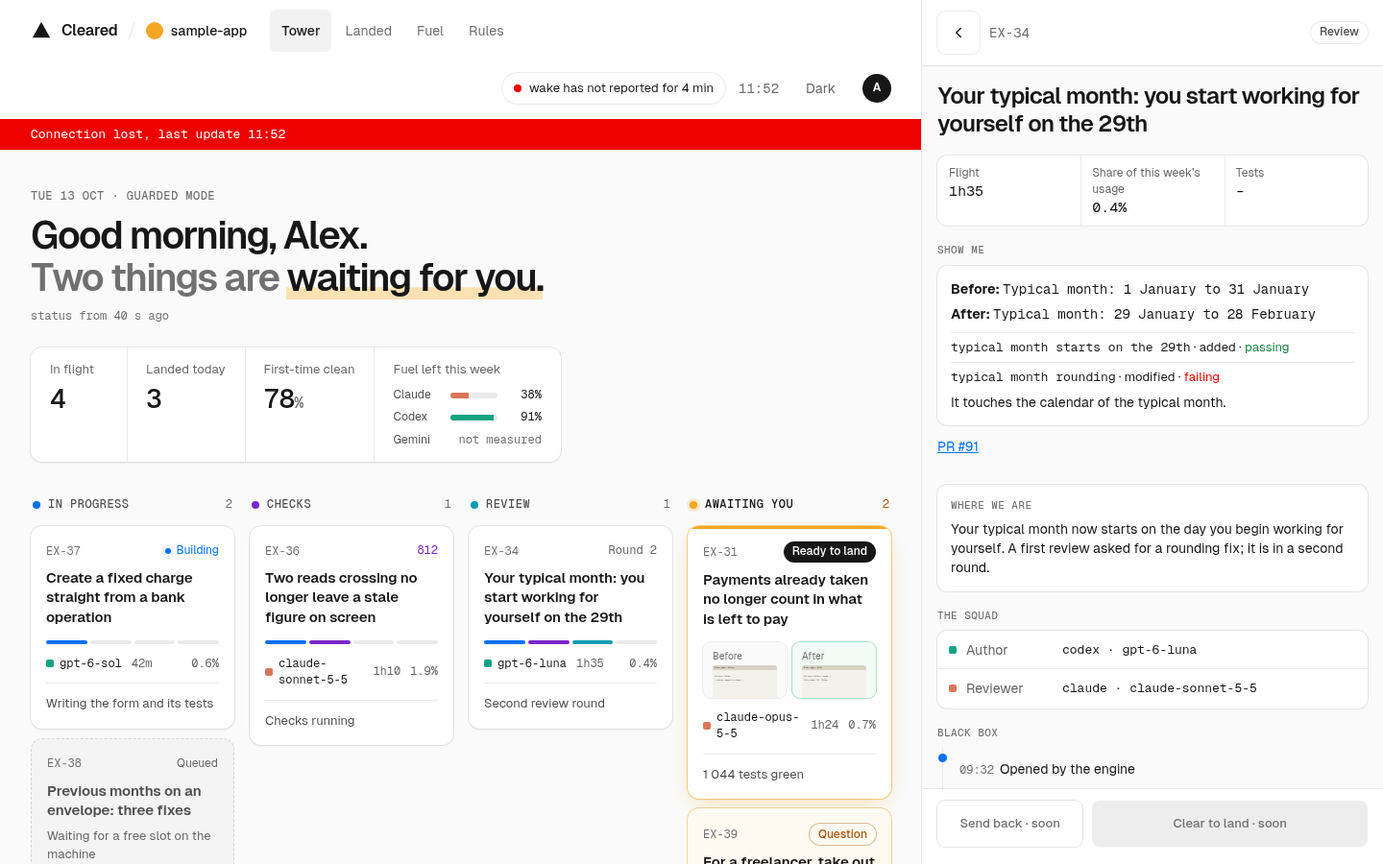
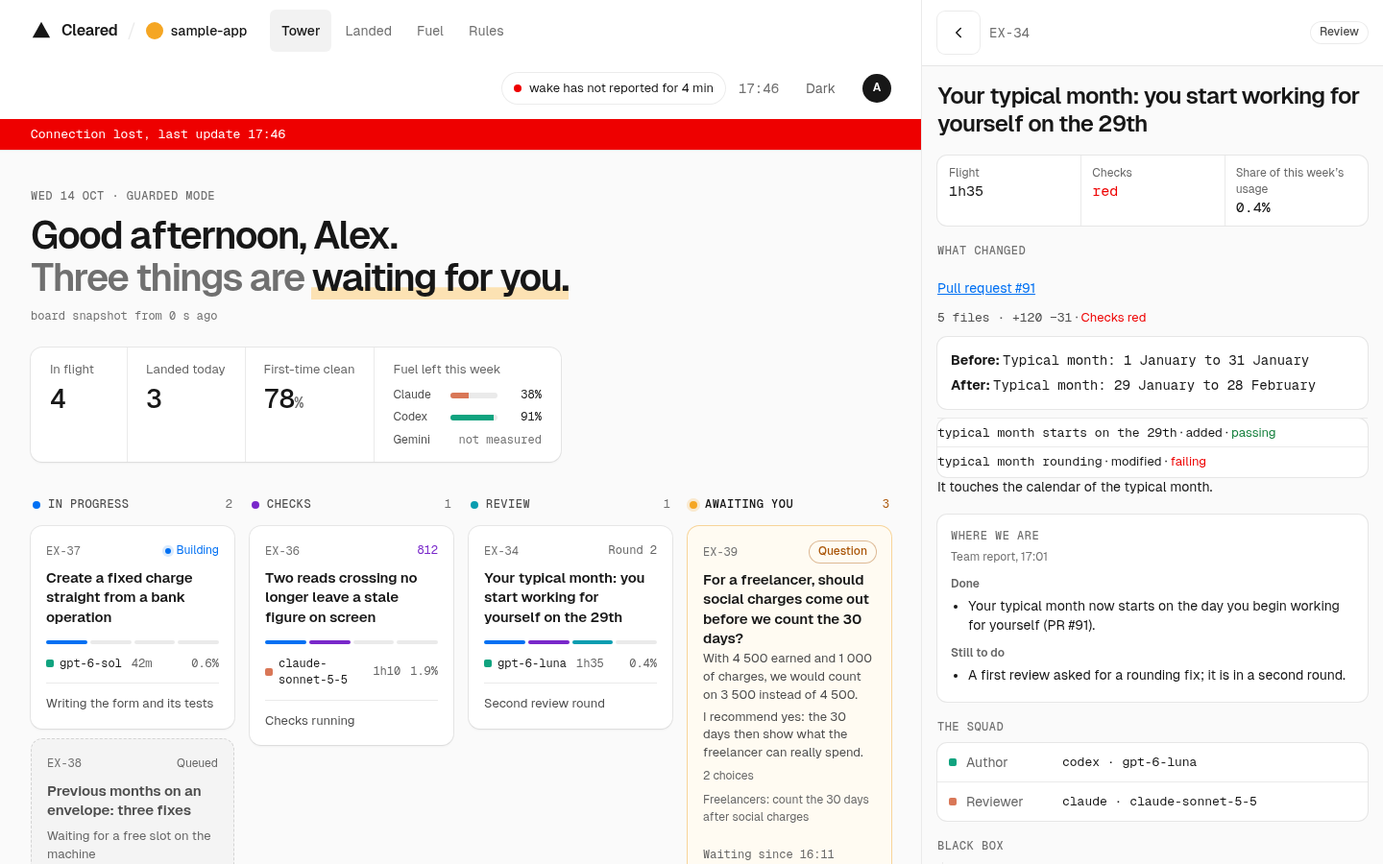
feat(app): show the whole question, what changed and the team's report
Question cards lead with the question's first sentence, then its
recommendation, choices and since when it waits; the porthole shows the
question in full, a one-tap Follow the recommendation when the team gave
one, What changed (pull request link, size, checks, captures or why none)
and Where we are from the report. Awaiting you is ordered by age; tracker-only
tickets are listed apart and quiet. Unknown values say not measured. Demo data
and screenshots cover each case.

diff --git a/app/public/app.js b/app/public/app.js
@@ -106,49 +106,98 @@ function renderStats(s) {
 }
 
 // --- tower -------------------------------------------------------------------
+// The time something started waiting: the hour today, the day and hour before.
+const since = (iso) => {
+  const d = new Date(iso), today = new Date();
+  return d.toDateString() === today.toDateString() ? clock(iso) : when(iso);
+};
+const SAYS_REC = /^(?:je recommande|nous recommandons|l['’]équipe recommande|je conseille|nous conseillons|ma recommandation|notre recommandation|recommandation|i recommend|we recommend|the team recommends|my recommendation|our recommendation|recommendation|recommended)\b/iu;
+const leadOf = (text) => (/^[^?？]*[?？]/u.exec(text) ?? /^[\s\S]*?[!.](?=\s|$)/u.exec(text))?.[0]?.trim() ?? text;
+// "PR #314 · 3 files · +12 −4 · checks green": what a pull request is, in one line. Unknown parts are said so.
+function changeParts(c) {
+  const parts = [];
+  if (c.files !== null) parts.push(t(c.files === 1 ? 'app_pr_files_one' : 'app_pr_files', { n: c.files }));
+  if (c.additions !== null && c.deletions !== null) parts.push(`+${c.additions} −${c.deletions}`);
+  else if (c.lines !== null) parts.push(t('app_pr_lines', { n: c.lines }));
+  if (!parts.length) parts.push(t('app_pr_size_unknown'));
+  return parts;
+}
+const checksText = (c) => (c?.checks ? `${t('app_checks')} ${t(`app_checks_${c.checks}`)}` : `${t('app_checks')} ${t('app_not_measured')}`);
+const checksClass = (c) => (c?.checks === 'green' ? 'success' : c?.checks === 'red' ? 'danger' : c?.checks === 'running' ? '' : 'faint');
 function card(ticket) {
   const col = COLUMNS.indexOf(ticket.column);
   const top = el('div', { className: 'top-row' }, el('span', { className: 'id', textContent: ticket.id }));
   if (ticket.kind === 'ready') top.append(el('span', { className: 'chip', textContent: t('app_chip_ready') }));
   else if (ticket.kind === 'question') top.append(el('span', { className: 'chip q', textContent: t('app_chip_question') }));
+  else if (ticket.kind === 'tracker') top.append(el('span', { className: 'hint', textContent: t('app_tracker_hint') }));
   else if (ticket.kind === 'queued') top.append(el('span', { className: 'hint', textContent: cap(t('app_queued_tag')) }));
   else if (ticket.live) top.append(el('span', { className: 'hint progress' }, el('i', { className: 'live' }), t('app_hint_building')));
   else if (ticket.column === 'checks' && ticket.tests) top.append(el('span', { className: 'hint checks', textContent: String(ticket.tests) }));
   else if (ticket.round > 1) top.append(el('span', { className: 'hint round', textContent: t('app_hint_round', { n: ticket.round }) }));
-  const parts = [top, el('h3', { textContent: ticket.title })];
+  const parts = [top];
+  const questions = ticket.kind === 'question' ? ticket.questions ?? [] : [];
+  if (questions.length) {
+    // The question in full as the title (at least its first sentence, never cut), then what goes with it.
+    const first = questions[0];
+    const lead = leadOf(first.text);
+    const rest = first.text.slice(lead.length).trim();
+    parts.push(el('h3', { textContent: lead }));
+    if (rest) parts.push(el('p', { className: 'q-rest', textContent: rest }));
+    // "The team recommends" only when the team's own words do not already say it ("I recommend…").
+    if (first.recommendation) parts.push(el('p', { className: 'q-rec' }, SAYS_REC.test(first.recommendation) ? null : el('b', { textContent: `${t('app_q_rec')} · ` }), first.recommendation));
+    const more = questions.length - 1;
+    if (first.options.length || more) parts.push(el('p', { className: 'q-meta', textContent: [first.options.length ? t('app_q_choices', { n: first.options.length }) : null, more ? t(more === 1 ? 'app_q_more_one' : 'app_q_more', { n: more }) : null].filter(Boolean).join(' · ') }));
+    parts.push(el('p', { className: 'q-ticket', textContent: ticket.title }));
+  } else parts.push(el('h3', { textContent: ticket.title }));
   if (ticket.kind === 'ready' && ticket.captures) {
     parts.push(el('div', { className: 'tiles' },
       el('div', { className: 'tile' }, el('div', { className: 't', textContent: t('app_before') }), el('img', { src: ticket.captures.before, alt: '' })),
       el('div', { className: 'tile after' }, el('div', { className: 't', textContent: t('app_after') }), el('img', { src: ticket.captures.after, alt: '' }))));
   }
+  if (ticket.kind === 'ready' && ticket.change) {
+    parts.push(el('p', { className: 'change-line' }, mono(`PR #${ticket.change.pr.number}`), ` · ${changeParts(ticket.change).join(' · ')} · `, el('span', { className: checksClass(ticket.change), textContent: checksText(ticket.change) })));
+  }
   const showRail = ticket.kind === 'normal' && col >= 0 && col < 3;
   if (showRail) parts.push(el('div', { className: 'rail' }, ...['progress', 'checks', 'review', null].map((stage, i) => el('span', { className: i <= col && stage ? `s-${stage}` : '' }))));
-  if (ticket.kind !== 'question' && ticket.kind !== 'queued') {
+  if (!['question', 'queued', 'tracker'].includes(ticket.kind)) {
     parts.push(el('div', { className: 'meta' }, el('span', { className: 'm' }, el('span', { className: `sq ${harnessClass(ticket.harness)}` }), ticket.model),
-      ticket.kind === 'queued' ? null : mono(dur(ticket.flightMinutes)),
-      el('span', { className: 'share', title: t('app_share_label') }, pct(ticket.quotaShare), el('span', { className: 'sr-only', textContent: ` ${t('app_share_label')}` }))));
+      mono(dur(ticket.flightMinutes)),
+      ticket.quotaShare == null ? null : el('span', { className: 'share', title: t('app_share_label') }, pct(ticket.quotaShare), el('span', { className: 'sr-only', textContent: ` ${t('app_share_label')}` }))));
   }
-  const sentence = actions.noteFor(ticket.id) ?? cap(ticket.queued || ticket.kind === 'question' ? ticket.reason : ticket.statusLine);
+  const sentence = actions.noteFor(ticket.id) ?? (ticket.kind === 'question' && questions.length ? null : cap(ticket.queued || ticket.kind === 'question' || ticket.kind === 'tracker' ? ticket.reason : ticket.statusLine));
   if (sentence) parts.push(el('div', { className: 'line', textContent: sentence }));
+  if (ticket.waiting) {
+    parts.push(el('div', { className: 'foot' }, ticket.since ? el('span', { className: 'age' }, el('time', { dateTime: ticket.since, textContent: t('app_since', { time: since(ticket.since) }) })) : null,
+      ticket.kind === 'question' ? el('span', { className: 'open', textContent: t('app_q_open') }) : null));
+  }
   const btn = el('button', { type: 'button' }, parts);
   btn.addEventListener('click', () => openTicket(ticket.id));
   return el('li', { className: `card ${ticket.kind}`, dataset: { id: ticket.id } }, btn);
 }
 function renderTower(s) {
-  const tickets = [...s.tickets].sort((a, b) => Number(b.waiting) - Number(a.waiting));
+  // What waits for the human first, the longest waiting first; a ticket the tracker alone holds comes after, apart.
+  const rank = (x) => (x.waiting ? 0 : x.kind === 'tracker' ? 2 : 1);
+  const tickets = [...s.tickets].sort((a, b) => rank(a) - rank(b) || (a.waiting && b.waiting ? (a.since ?? '~').localeCompare(b.since ?? '~') : 0));
   $('tower').replaceChildren(...COLUMNS.map((c) => {
     const mine = tickets.filter((x) => x.column === c);
+    const main = mine.filter((x) => x.kind !== 'tracker'), apart = mine.filter((x) => x.kind === 'tracker');
+    const shown = c === 'awaiting' ? mine.filter((x) => x.waiting).length : mine.length;
     return el('section', { className: 'col', dataset: { col: c } },
-      el('div', { className: 'col-head' }, el('i', { className: `d-${c}` }), el('h2', { textContent: t(`app_col_${c}`) }), mono(String(mine.length), 'n')),
-      mine.length ? el('ul', { className: 'cards' }, ...mine.map(card)) : el('p', { className: 'empty', textContent: t('app_none') }));
+      el('div', { className: 'col-head' }, el('i', { className: `d-${c}` }), el('h2', { textContent: t(`app_col_${c}`) }), mono(String(shown), 'n')),
+      main.length ? el('ul', { className: 'cards' }, ...main.map(card)) : el('p', { className: 'empty', textContent: t('app_none') }),
+      apart.length ? el('h3', { className: 'apart', textContent: t('app_tracker_group') }) : null,
+      apart.length ? el('ul', { className: 'cards' }, ...apart.map(card)) : null);
   }));
 }
 function renderLanded(s) {
   const rows = todayLanded(s);
   const back = rows.filter((r) => r.rolledBackAt).length;
+  // The share of the week is left out when it is not measured (too few tickets this week to mean anything).
+  const measured = rows.every((r) => r.share != null);
   const share = Math.round(rows.reduce((n, r) => n + (r.share ?? 0), 0) * 10) / 10;
   $('landed-summary').textContent = rows.length
-    ? t(rows.length === 1 ? 'app_landed_summary_one' : 'app_landed_summary', { n: rows.length, r: back, p: String(share).replace('.', fr() ? ',' : '.') })
+    ? (measured ? t(rows.length === 1 ? 'app_landed_summary_one' : 'app_landed_summary', { n: rows.length, r: back, p: String(share).replace('.', fr() ? ',' : '.') })
+      : t(rows.length === 1 ? 'app_landed_summary_short_one' : 'app_landed_summary_short', { n: rows.length, r: back }))
     : '';
   const heads = ['time', 'what', 'model', 'out'].map((k) => el('span', { role: 'columnheader', textContent: t(`app_landed_col_${k}`) }));
   const lines = rows.map((r) => {
@@ -202,7 +251,7 @@ async function openTicket(id) {
     if (state.open !== id) return; // another ticket was opened meanwhile
     const chip = $('ph-chip');
     chip.className = `chip${d.kind === 'question' ? ' q' : d.kind === 'ready' ? '' : ' stage'}`;
-    chip.textContent = d.kind === 'ready' ? t('app_chip_ready') : d.kind === 'question' ? t('app_chip_question') : t(`app_col_${d.column}`);
+    chip.textContent = d.kind === 'ready' ? t('app_chip_ready') : d.kind === 'question' ? t('app_chip_question') : d.kind === 'tracker' ? t('app_tracker_hint') : t(`app_col_${d.column}`);
     $('ph-body').replaceChildren(...porthole(d));
     await actions.load();
     if (state.open !== id) return;
@@ -233,28 +282,62 @@ function device(img, after) {
   return el('figure', { className: after ? 'after' : 'before' }, b, el('figcaption', { textContent: img.caption }));
 }
 const section = (label, ...kids) => el('section', { className: 'sec' }, el('span', { className: 'label', textContent: label }), kids);
+const minutesSince = (iso) => Math.max(0, Math.round((Date.now() - Date.parse(iso)) / 60000));
 
+// The porthole of one ticket: what is asked of the human first (the whole question, the
+// team's recommendation, or the version to clear), then what changed, then where the work stands.
 function porthole(d) {
   const out = [];
-  out.push(el('div', {}, d.waiting ? el('div', { className: 'amber-bar' }) : null, el('h2', { id: 'ph-title', textContent: d.title })));
-  out.push(el('div', { className: 'pstats' },
-    el('div', {}, el('div', { className: 'k', textContent: t('app_stat_p_flight') }), el('div', { className: 'v', textContent: dur(d.flightMinutes) })),
-    el('div', {}, el('div', { className: 'k', textContent: t('app_stat_p_usage') }), el('div', { className: 'v', textContent: pct(d.quotaShare) })),
-    el('div', {}, el('div', { className: 'k', textContent: t('app_stat_p_tests') }), el('div', { className: `v${d.tests ? ' success' : ''}`, textContent: d.tests ? new Intl.NumberFormat(locale()).format(d.tests) : '–' }))));
-  const show = [];
-  if (d.show.kind === 'screen') {
-    show.push(el('div', { className: 'devs' }, ...d.show.before.map((i) => device(i, false)), ...d.show.after.map((i) => device(i, true))));
-    if (!d.show.before.length && !d.show.after.length) show.push(el('p', { className: 'empty', textContent: t('app_no_capture') }));
-  } else {
-    const box = [];
-    if (d.show.example) box.push(el('div', { className: 'example' }, el('p', {}, el('b', { textContent: `${t('app_before')}: ` }), mono(d.show.example.before)), el('p', {}, el('b', { textContent: `${t('app_after')}: ` }), mono(d.show.example.after))));
-    if (d.show.tests.length) box.push(el('ul', { className: 'tests' }, ...d.show.tests.map((x) => el('li', {}, mono(x.name), ` · ${t(`app_test_${x.change}`)} · `, el('span', { className: x.state === 'pass' ? 'success' : x.state === 'fail' ? 'danger' : 'faint', textContent: t(`app_state_${x.state}`) })))));
-    if (d.show.touches) box.push(el('p', { textContent: d.show.touches }));
-    show.push(box.length ? el('div', { className: 'box-card' }, box) : el('p', { className: 'empty', textContent: t('app_nothing_yet') }));
+  out.push(el('div', {}, d.waiting ? el('div', { className: 'amber-bar' }) : null, el('h2', { id: 'ph-title', textContent: d.title }),
+    d.waiting && d.since ? el('p', { className: 'ph-since' }, el('time', { dateTime: d.since, textContent: `${t('app_since', { time: since(d.since) })} (${dur(minutesSince(d.since))})` })) : null));
+  const questions = d.kind === 'question' ? d.questions ?? [] : [];
+  if (questions.length) {
+    out.push(el('section', { className: 'ph-question', ariaLabel: t(questions.length > 1 ? 'app_q_label_many' : 'app_q_label') },
+      el('span', { className: 'label', textContent: t(questions.length > 1 ? 'app_q_label_many' : 'app_q_label') }),
+      ...questions.map((q, i) => el('div', { className: 'q' },
+        questions.length > 1 ? el('span', { className: 'q-n mono', textContent: t('app_q_number', { n: i + 1 }) }) : null,
+        el('p', { className: 'q-text', textContent: q.text }),
+        q.recommendation ? el('p', { className: 'q-rec' }, el('b', { textContent: t('app_q_rec') }), q.recommendation) : null,
+        q.options.length ? el('ul', { className: 'q-options' }, ...q.options.map((o) => el('li', { textContent: o }))) : null))));
   }
-  if (d.pr) show.push(d.pr.url ? el('p', {}, el('a', { href: d.pr.url, rel: 'noreferrer noopener', target: '_blank', textContent: `PR #${d.pr.number}` })) : el('p', {}, mono(`PR #${d.pr.number}`)));
-  out.push(section(t('app_show'), show));
-  out.push(el('section', { className: 'box-card sec' }, el('span', { className: 'label', textContent: t('app_where') }), el('p', { textContent: d.where.join(' ') })));
+  if (d.kind === 'ready' && d.where.length) out.push(el('section', { className: 'box-card sec' }, el('span', { className: 'label', textContent: t('app_asked') }), el('p', { textContent: d.where.join(' ') })));
+  if (d.kind === 'tracker') out.push(el('p', { className: 'box-card tracker-note', textContent: t('app_tracker_explain') }));
+  // Stats that mean something, or that say plainly they are not measured.
+  const stats = [[t('app_stat_p_flight'), dur(d.flightMinutes), '']];
+  stats.push([t('app_stat_p_checks'), d.change?.checks ? t(`app_checks_${d.change.checks}`) : t('app_not_measured'), checksClass(d.change)]);
+  if (d.quotaShare != null) stats.push([t('app_stat_p_usage'), pct(d.quotaShare), '']);
+  out.push(el('div', { className: 'pstats' }, ...stats.map(([k, v, cls]) => el('div', {}, el('div', { className: 'k', textContent: k }), el('div', { className: `v ${cls}`.trim(), textContent: v })))));
+
+  // What changed: the pull request, its size and its checks; the captures of a screen; an example.
+  const changed = [];
+  const c = d.change ?? (d.pr ? { pr: d.pr, files: null, additions: null, deletions: null, lines: null, checks: null, draft: null } : null);
+  if (c) {
+    changed.push(el('div', { className: 'pr-row' },
+      c.pr.url ? el('a', { href: c.pr.url, rel: 'noreferrer noopener', target: '_blank', textContent: t('app_pr_link', { n: c.pr.number }) }) : mono(t('app_pr_link', { n: c.pr.number })),
+      c.draft ? el('span', { className: 'tag', textContent: t('app_pr_draft') }) : null),
+    el('p', { className: 'pr-facts' }, mono(changeParts(c).join(' · ')), ' · ', el('span', { className: checksClass(c), textContent: checksText(c) }),
+      d.tests ? ` · ${t('app_srv_tests_green', { n: new Intl.NumberFormat(locale()).format(d.tests) })}` : null));
+  } else changed.push(el('p', { className: 'empty', textContent: t('app_no_pr') }));
+  if (d.show.kind === 'screen') {
+    if (d.show.before.length || d.show.after.length) changed.push(el('div', { className: 'devs' }, ...d.show.before.map((i) => device(i, false)), ...d.show.after.map((i) => device(i, true))));
+    else changed.push(el('p', { className: 'no-capture', textContent: t(`app_no_capture_${d.show.missing ?? 'none_kept'}`) }));
+  }
+  const example = d.show.example;
+  if (example) changed.push(el('div', { className: 'example box-card' }, el('p', {}, el('b', { textContent: `${t('app_before')}: ` }), mono(example.before)), el('p', {}, el('b', { textContent: `${t('app_after')}: ` }), mono(example.after))));
+  if (d.show.kind === 'code' && d.show.tests.length) changed.push(el('ul', { className: 'tests box-card' }, ...d.show.tests.map((x) => el('li', {}, mono(x.name), ` · ${t(`app_test_${x.change}`)} · `, el('span', { className: x.state === 'pass' ? 'success' : x.state === 'fail' ? 'danger' : 'faint', textContent: t(`app_state_${x.state}`) })))));
+  if (d.show.kind === 'code' && d.show.touches) changed.push(el('p', { textContent: d.show.touches }));
+  out.push(section(t('app_changed'), changed));
+
+  // Where we are: the team's report to the user (Done, Still to do), never its internal handover.
+  const where = [];
+  if (d.report) {
+    where.push(el('p', { className: 'report-at faint', textContent: t('app_report_title', { time: since(d.report.at) }) }));
+    const list = (label, items) => (items.length ? [el('h3', { className: 'report-h', textContent: label }), el('ul', { className: 'report' }, ...items.map((x) => el('li', { textContent: x })))] : []);
+    where.push(...list(t('app_report_done'), d.report.done), ...list(t('app_report_remaining'), d.report.remaining));
+    if (d.report.other?.length) where.push(el('ul', { className: 'report' }, ...d.report.other.map((x) => el('li', { textContent: x }))));
+  } else where.push(el('p', { className: 'empty', textContent: t('app_no_report') }));
+  out.push(el('section', { className: 'box-card sec' }, el('span', { className: 'label', textContent: t('app_where') }), where));
+
   out.push(section(t('app_squad'), d.squad.length
     ? el('ul', { className: 'squad' }, ...d.squad.map((s) => el('li', {}, el('span', { className: `sq ${harnessClass(s.harness)}` }), el('span', { className: 'role', textContent: t(`app_role_${s.role.replace(/ /g, '_')}`) }), mono(`${s.harness} · ${s.model}`, 'who'))))
     : el('p', { className: 'empty', textContent: t('app_no_squad') })));

diff --git a/app/public/style.css b/app/public/style.css
@@ -132,7 +132,7 @@ a { color: var(--link); } button { font: inherit; color: inherit; }
 .ph-body h2 { font-size: 24px; font-weight: 600; letter-spacing: -.035em; line-height: 1.2; } .amber-bar { height: 3px; width: 56px; border-radius: 2px; background: var(--awaiting); margin-bottom: 12px; }
 .pstats { display: flex; background: var(--surface); border-radius: 10px; box-shadow: var(--e-outline); } .pstats > div { flex: 1; padding: 10px 12px; min-width: 0; } .pstats > div + div { box-shadow: inset 1px 0 0 var(--hairline); }
 .pstats .k { font-size: 12px; color: var(--text-muted); } .pstats .v { font: 15px var(--mono); }
-.sec .label { font-size: 11px; color: var(--text-faint); margin-bottom: 8px; display: block; }
+.sec .label { font-size: 12px; color: var(--text-faint); margin-bottom: 8px; display: block; }
 .devs { display: flex; gap: 10px; } .devs figure { margin: 0; flex: 1; min-width: 0; } .devs figcaption { font-size: 12px; color: var(--text-muted); margin-top: 6px; text-align: center; } .devs .after figcaption { color: var(--success-text); font-weight: 500; }
 .device { display: block; width: 100%; padding: 5px; border-radius: 16px; background: var(--surface); box-shadow: var(--device-before); border: 0; cursor: zoom-in; } .after .device { box-shadow: var(--e-device-after); }
 .device img { display: block; width: 100%; height: 200px; object-fit: cover; object-position: top left; border-radius: 12px; background: var(--canvas); }
@@ -141,8 +141,8 @@ a { color: var(--link); } button { font: inherit; color: inherit; }
 .squad { list-style: none; margin: 0; padding: 0; background: var(--surface); border-radius: 10px; box-shadow: var(--e-outline); } .squad li { display: flex; align-items: center; gap: 10px; padding: 10px 12px; } .squad li + li { box-shadow: 0 -1px 0 var(--hairline); } .squad .role { color: var(--text-muted); width: 90px; flex: none; } .squad .who { font: 13px var(--mono); }
 .timeline { list-style: none; margin: 0 0 0 5px; padding: 0; display: flex; flex-direction: column; gap: 12px; box-shadow: inset 1px 0 0 var(--hairline); }
 .timeline li { position: relative; padding-left: 18px; } .timeline li::before { content: ""; position: absolute; left: -4px; top: 6px; width: 9px; height: 9px; border-radius: 50%; background: var(--dot, var(--stage-progress)); }
-.timeline time { font: 12px var(--mono); color: var(--text-faint); margin-right: 6px; } .timeline details { display: inline; } .timeline summary { display: inline; cursor: pointer; } .timeline pre { margin: 6px 0 0; font: 11px/1.4 var(--mono); white-space: pre-wrap; color: var(--text-muted); }
-.ph-actions { display: flex; flex-direction: column; gap: 10px; padding: 12px 16px 18px; background: var(--surface); box-shadow: 0 -1px 0 var(--outline); }
+.timeline time { font: 12px var(--mono); color: var(--text-faint); margin-right: 6px; } .timeline details { display: inline; } .timeline summary { display: inline; cursor: pointer; } .timeline pre { margin: 6px 0 0; font: 12px/1.4 var(--mono); white-space: pre-wrap; color: var(--text-muted); }
+.ph-actions { flex: none; display: flex; flex-direction: column; gap: 10px; max-height: 60vh; overflow-y: auto; padding: 12px 16px 18px; background: var(--surface); box-shadow: 0 -1px 0 var(--outline); }
 .zoom { position: fixed; inset: 0; background: var(--canvas); z-index: 40; display: grid; place-items: center; padding: 16px; } .zoom img { max-width: 100%; max-height: 85vh; border-radius: 12px; box-shadow: var(--e-outline); } .zoom button { position: absolute; top: 8px; right: 8px; }
 [hidden] { display: none !important; }
 
@@ -176,7 +176,7 @@ a { color: var(--link); } button { font: inherit; color: inherit; }
 .landed-rows > .empty { grid-column: 1 / -1; padding: 14px 18px; }
 
 /* the gestures: black is the action, nothing else here is coloured */
-.act-row { display: flex; gap: 10px; } .act-options { display: flex; flex-direction: column; gap: 8px; }
+.act-row { display: flex; gap: 10px; }
 .act { flex: 1; min-height: 48px; border-radius: 8px; border: 0; font: 500 14px var(--sans); cursor: pointer; padding: 0 12px; }
 .act.ink { flex: 2; background: var(--ink); color: var(--on-ink); } .act.ghost { background: transparent; color: var(--text); box-shadow: 0 0 0 1px rgba(0,0,0,.14); }
 :root[data-theme="dark"] .act.ghost { box-shadow: 0 0 0 1px rgba(255,255,255,.2); }
@@ -189,3 +189,36 @@ a { color: var(--link); } button { font: inherit; color: inherit; }
 .grace-text { font-size: 13px; color: var(--text); }
 .grace-bar { height: 4px; border-radius: 2px; background: var(--hairline); overflow: hidden; } .grace-bar i { display: block; height: 100%; background: var(--ink); }
 .undo { min-height: 44px; min-width: 88px; padding: 0 16px; border: 0; border-radius: 8px; background: var(--ink); color: var(--on-ink); font: 600 14px var(--sans); cursor: pointer; } .undo:disabled { background: var(--surface-muted); color: var(--text-faint); cursor: not-allowed; }
+
+/* what waits for the human, said in full: the question, the team's recommendation, the age */
+.card .q-rest, .card .q-rec { font-size: 13px; color: var(--text-secondary); margin: -6px 0 10px; display: -webkit-box; -webkit-box-orient: vertical; -webkit-line-clamp: 3; overflow: hidden; }
+.card .q-rec b { font-weight: 600; color: var(--text); }
+.card .q-meta { font-size: 12px; color: var(--text-muted); margin: -4px 0 8px; }
+.card .q-ticket { font-size: 12px; color: var(--text-muted); }
+.card .foot { display: flex; flex-wrap: wrap; align-items: baseline; justify-content: space-between; gap: 4px 12px; margin-top: 12px; font-size: 12px; }
+.card .foot .age { font-family: var(--mono); color: var(--text-muted); }
+.card.question .open { font-weight: 600; color: var(--awaiting-text); text-decoration: underline; text-underline-offset: 3px; }
+.card .change-line { font-size: 12px; color: var(--text-secondary); margin: 0 0 12px; }
+.card.tracker { background: var(--surface-muted); box-shadow: 0 0 0 1px var(--hairline); } .card.tracker h3 { color: var(--text-secondary); margin-bottom: 8px; } .card.tracker .line { box-shadow: none; padding: 0; margin: 0; color: var(--text-muted); font-size: 12px; }
+.col .apart { margin: 8px 2px 0; font: 500 12px/1.4 var(--mono); letter-spacing: .04em; text-transform: uppercase; color: var(--text-muted); }
+.ph-since { margin-top: 6px; font: 13px var(--mono); color: var(--text-muted); }
+.ph-question { padding: 14px; border-radius: 10px; background: var(--awaiting-surface); box-shadow: 0 0 0 1px rgba(245,166,35,.45); }
+.ph-question .label { display: block; margin-bottom: 8px; color: var(--text-muted); }
+.ph-question .q + .q { margin-top: 14px; padding-top: 14px; box-shadow: 0 -1px 0 var(--hairline); }
+.ph-question .q-n { display: block; font-size: 12px; color: var(--text-muted); margin-bottom: 4px; }
+.ph-question .q-text { font-size: 16px; font-weight: 500; line-height: 1.45; color: var(--text); }
+.ph-question .q-rec { margin-top: 12px; padding-top: 10px; box-shadow: 0 -1px 0 var(--awaiting-highlight); font-size: 14px; color: var(--text); }
+.ph-question .q-rec b { display: block; font: 500 12px/1.4 var(--mono); letter-spacing: .04em; text-transform: uppercase; color: var(--text-muted); margin-bottom: 2px; }
+.ph-question .q-options { margin: 10px 0 0; padding-left: 18px; font-size: 14px; color: var(--text-secondary); }
+/* the choices are buttons below when the answer form is there: not said twice */
+.porthole:has(#ph-actions:not([hidden]) .act-options) .q-options { display: none; }
+.act-options { display: grid; grid-template-columns: repeat(auto-fit, minmax(150px, 1fr)); gap: 8px; } .act-options .act.ink { grid-column: 1 / -1; }
+.act-options .act { padding: 8px 12px; line-height: 1.3; }
+.pr-row { display: flex; align-items: center; gap: 10px; flex-wrap: wrap; } .pr-row .tag { font-size: 12px; padding: 2px 8px; border-radius: 999px; box-shadow: var(--e-outline); color: var(--text-muted); }
+.pr-facts { font-size: 13px; color: var(--text-secondary); margin-bottom: 10px; }
+.no-capture { font-size: 13px; color: var(--text-secondary); padding: 12px 14px; border-radius: 10px; border: 1px dashed var(--dashed); }
+.sec > .example, .sec > .tests, .sec > .devs { margin-top: 10px; }
+.report-at { font-size: 12px; margin-bottom: 4px; }
+.report-h { font-size: 12px; font-weight: 600; color: var(--text-muted); margin: 10px 0 4px; }
+.report { margin: 0; padding-left: 18px; } .report li { margin: 4px 0; }
+.tracker-note { font-size: 13px; color: var(--text-secondary); }

diff --git a/app/public/actions.js b/app/public/actions.js
@@ -106,21 +106,36 @@ export function initActions({ t, el, $, state, clock, redraw, reopen }) {
     area.focus();
   }
 
+  // The answer to a question: one tap to follow the team's recommendation (only when it gave one),
+  // one tap per choice it offered, or the owner's own words. Each is sent as written here, as a comment.
   function answerForm(card) {
     const area = el('textarea', { className: 'act-text', rows: 2, maxLength: 4000, id: 'an-text', placeholder: t('app_act_answer_hint') });
     const err = el('p', { className: 'act-error danger', role: 'alert' });
-    const send = async (value, ...buttons) => {
+    const all = [];
+    const send = async (value) => {
       if (!value.trim()) return;
-      for (const b of buttons) b.disabled = true;
+      for (const b of all) b.disabled = true;
       const r = await api('/api/actions/answer', { ticket: card.ref, text: value });
       if (r.ok && r.json.ok) return note(card, t('app_act_answered_note', { time: clock(new Date().toISOString()) }));
-      for (const b of buttons) b.disabled = false;
+      for (const b of all) b.disabled = false;
+      go.disabled = !area.value.trim();
       err.textContent = failure(r.json);
     };
-    const options = (card.options ?? []).map((o) => button(o, 'ghost', () => send(o, ...all)));
-    const go = button(t('app_act_send'), 'ink', () => send(area.value, ...all));
-    const all = [...options, go];
-    box.replaceChildren(...(options.length ? [el('div', { className: 'act-options' }, options)] : []), el('label', { className: 'act-label', htmlFor: 'an-text', textContent: t('app_act_answer_label') }), area, err, el('div', { className: 'act-row' }, go));
+    const questions = card.questions?.length ? card.questions : [{ text: '', recommendation: null, options: card.options ?? [] }];
+    const many = questions.length > 1;
+    const blocks = questions.map((q, i) => {
+      const n = i + 1;
+      const buttons = [];
+      if (q.recommendation) buttons.push(button(many ? `${t('app_q_number', { n })} · ${t('app_act_follow')}` : t('app_act_follow'), 'ink',
+        () => send(t(many ? 'app_act_follow_text_n' : 'app_act_follow_text', { n, rec: q.recommendation }))));
+      for (const o of q.options) buttons.push(button(many ? `${n}. ${o}` : o, 'ghost', () => send(many ? t('app_act_option_text_n', { n, option: o }) : o)));
+      all.push(...buttons);
+      return buttons.length ? el('div', { className: 'act-options' }, buttons) : null;
+    }).filter(Boolean);
+    const go = button(t('app_act_send'), 'ink', () => send(area.value), true);
+    area.addEventListener('input', () => { go.disabled = !area.value.trim(); go.toggleAttribute('aria-disabled', go.disabled); });
+    all.push(go);
+    box.replaceChildren(...blocks, el('label', { className: 'act-label', htmlFor: 'an-text', textContent: t('app_act_answer_label') }), area, err, el('div', { className: 'act-row' }, go));
   }
 
   // Called when a ticket is opened (fresh) and each time the board changes under it.
@@ -135,7 +150,7 @@ export function initActions({ t, el, $, state, clock, redraw, reopen }) {
     if (mode.name === 'grace' || mode.name === 'busy') return;
     if (card.kind === 'question') {
       // A redraw of the board must not wipe what is being typed.
-      const key = `${card.ref}|${(card.options ?? []).join('|')}`;
+      const key = `${card.ref}|${JSON.stringify(card.questions ?? card.options ?? [])}`;
       if (!fresh && key === formKey && box.querySelector('#an-text')) return;
       formKey = key;
       return answerForm(card);

diff --git a/docs/app.md b/docs/app.md
@@ -17,9 +17,9 @@ The look follows [`app/DESIGN.md`](../app/DESIGN.md) (a light, Vercel/Geist-base
 
 - **Header**: logo, project, views (only *Tower* exists; *Landed*, *Fuel* and *Rules* are dimmed and marked soon), the health pill, the time and the theme button.
 - **Greeting band**: the date and pilot mode, a greeting with what waits for you ("Two things are ready to land." / "Nothing needs you."), and the stat strip: *In flight*, *Landed today*, *First-time clean* and *Fuel left this week* (one bar per subscription, never money; "not measured" otherwise).
-- **Tower**: four columns (In progress, Checks, Review, Awaiting you), one card per open ticket. A card that waits for you carries the amber stripe: *Ready to land* (with before/after tiles for a screen ticket) or *Question*. A team waiting for a place has a dashed card with the reason. On a phone the tower is one list, awaiting cards first.
+- **Tower**: four columns (In progress, Checks, Review, Awaiting you), one card per open ticket. A card that waits for you carries the amber stripe: *Ready to land* (with before/after tiles for a screen ticket, and one line on its pull request: number, files, lines, checks) or *Question* (the question itself as the title, its first sentence never cut, then the rest of it, the team's recommendation and its choices in a few lines, and "Read it all and answer"). Both say since when they wait, and the longest waiting comes first. A ticket that only sits in the tracker's approval status, with no request from Cleared behind it, is not ready to land: it is listed apart under the waiting cards, quiet, with nothing to clear. A team waiting for a place has a dashed card with the reason. On a phone the tower is one list, awaiting cards first.
 - **Landed today**: what shipped today, with its model and outcome (clean first time, review rounds, rolled back).
-- **Porthole**: a right panel on a computer, a page on a phone. Title, stat strip (flight, share of this week's usage, tests), *Show me* (device frames for a screen ticket; otherwise an example, the tests and what it touches), *Where we are*, *The squad* and the *Black box* timeline (raw event on unfold). *Clear to land*, *Send back* and the answer form of a question are real, see [Gestures](#gestures).
+- **Porthole**: a right panel on a computer, a page on a phone. Title and since when it waits, then what is asked of you: the whole question (or each question) with the team's recommendation, or the request to clear a version. Then a stat strip (flight, checks, and the share of this week's usage when it means something), *What changed* (the pull request with its link, files and lines, checks running, green or red; device frames for a screen ticket, or "no capture yet" and why; an example), *Where we are* (the team's report to you: Done, Still to do; "No report from the team yet" without one), *The squad* and the *Black box* timeline (raw event on unfold). *Clear to land*, *Send back* and the answer form of a question are real and stay at the bottom of the panel, see [Gestures](#gestures). A value that is not known says "not measured".
 
 The interface language follows `[owner] language` through the message catalog (`app_*` keys in `lib/i18n/`).
 
@@ -29,14 +29,18 @@ The interface language follows `[owner] language` through the message catalog (`
 | --- | --- |
 | Cards and columns | The wake's board snapshot, built from tracker tickets in the configured states, plus `runs` and `events` of the ledger. *Checks* is derived: a ticket in the progress state whose author run ended with a pull request and has no review run yet. |
 | Harness, model, flight time | `runs` (provider, model, started/ended). |
-| Share of this week's usage, on a card | The ticket's tokens divided by all tokens of the last seven days. It is a share of Cleared's own usage, not a share of the subscription: the subscription reports only percentages per window, not per ticket. |
-| Status line, Where we are, tests, example | The ticket's handover (`memory_entries`) and the approval request comment. A line like "1 044 tests green" is shown only if the handover says it. |
+| Share of this week's usage, on a card | The ticket's tokens divided by all tokens of the last seven days. It is a share of Cleared's own usage, not a share of the subscription: the subscription reports only percentages per window, not per ticket. It is shown only once at least five tickets (`SHARE_MIN_TICKETS` in `lib/board-collector.mjs`) had a run in those seven days; below that one ticket's share says nothing ("79 %" of a week of two tickets) and is left out, on cards, in the porthole and in Landed today. |
+| Question, recommendation, choices | The `lane_asks` event: the "Questions for the user" lines of the team's report. A line that asks (a question mark) or carries its own recommendation opens a question, even when numbered; short list lines under it (`- text`, `1. text`, `A) text`, four at most) are its choices; a recommendation is taken only when the team writes one ("I recommend", "Recommendation:", "Je recommande", "Recommandation :"…), never made up. Up to four questions, each up to 1 500 characters. |
+| Where we are, example | The team's report to the user: the report file the dispatcher keeps for the run (`state/reports/<run>.md`, sections Done, Remaining work, Questions for the user, in the owner's language), the newest finished one of the ticket, which is the formatted one when `[tracker] writeup_role` rewrote it. For a ticket ready to land, the request for agreement comment too. Never the handover (`memory_entries`): it is the team's internal note for its next session, and the Black box only says that one was kept. |
+| Status line, tests | A line like "1 044 tests green" is shown only if the report (or, for the count alone, the handover) says it. |
+| What changed | The pull request of the ticket's runs. Its checks (running, green, red), files and lines come from the wake's own listing of open pull requests (`wake/state.json`, kept by `wake.sh` from the one `gh pr list` it makes); lines otherwise from the ledger (`runs.lines_changed`). What the wake did not see is "not measured". |
+| Ready to land, Question, tracker only | *Ready to land* needs a request of Cleared for that version (`state/validations/<ticket>.json`); a ticket in `[tracker] validate_state` without one is shown apart as tracker only. |
 | Fuel | The wake's snapshot of `lib/limits.mjs summary` (the share left is 100 minus the most constraining window). |
 | Landed today, first-time clean | `merged_by_script` events, with the ticket's runs: no changes asked by a review means clean first time; a `prod_revert` or `rollback_pushed` after the merge means rolled back. First-time clean is counted over the last seven days. |
 | In flight | Tickets whose last author run is still running. |
 | Health | What the wake recorded (`heartbeat_state` and `heartbeat_incidents`, read-only), plus the snapshot generation time. The app shows the snapshot age and reports one older than three wake intervals. It also reports a missing or unknown snapshot format. |
 | Pilot mode | Derived from `[merge] tooling_paths`: whether tooling paths may merge after review. |
-| Captures | The wake copies images from local, GitHub or Linear ticket comments to the project state cache, using the configured tracker identity for private remote assets. The snapshot contains only local `/media/` references. |
+| Captures | The wake copies images from local, GitHub or Linear ticket comments to the project state cache, using the configured tracker identity for private remote assets, and the PNG and JPEG files the team set apart for the user (`[lanes] kept_in/<ticket>/`, no link followed, eight at most, 5 MB each; a name with "before" or "avant" is the before side). The snapshot contains only local `/media/` references. A screen ticket without any says "No capture yet" and why: the team is still working, it kept none, or `[lanes] kept_in` is not set. |
 
 ## Snapshot publication
 
@@ -65,7 +69,7 @@ Offered only on a card that waits for an agreement (*Ready to land*), with the r
 A required text ("what needs to change") and a passkey. The app writes the text as a comment, then moves the ticket to `[app] sent_back_state` (default `[tracker] progress_state`), both as the human. The team reopens with that word through the existing circuit: a comment of the owner after the last run is handed to the lane, and the ticket shows at work.
 
 ### Answer a question
-On a *Question* card the options the team put under its question (lines like `- text`, `1. text` or `A) text`, four at most) become buttons, plus a free text field. It needs the session only, no passkey. The app writes the answer as a comment as the human.
+On a *Question* card the options the team put under its question (lines like `- text`, `1. text` or `A) text`, four at most) become buttons, plus a free text field. When the team stated a recommendation, one more button, *Follow the recommendation*, answers "I follow your recommendation." with the recommendation quoted (with several questions, each answer names its question). It needs the session only, no passkey. The app writes the answer as a comment as the human.
 
 ### The ledger
 Every gesture attempt, refused or not, is one `app_gesture` event: `{gesture, result, device, version}` with the time and the ticket. Results: `confirmed` (grace started), `undone`, `written`, `refused_new_version`, `failed_<code>`, `registered` (a passkey). The device is a short name from the browser ("iPhone · 3fa1") and the first four characters of the session.

diff --git a/app/DESIGN.md b/app/DESIGN.md
@@ -113,7 +113,9 @@ One white outlined block with hairline separators: In flight, Landed today, Firs
 
 **Awaiting, ready to land:** same white card, 3 px flat `awaiting` stripe on top, `elevation.awaiting`, a black "Ready to land" chip. If the ticket touches a screen, two small before/after tiles: before on `canvas` with the key figure in `danger` when it is a problem, after on `success-surface` with a `success` outline.
 
-**Awaiting, question:** `awaiting-surface` background, amber outline, an outlined "Question" chip in `awaiting-text`, the question as the title, one sentence with the concrete example and the squad's recommendation.
+**Awaiting, question:** `awaiting-surface` background, amber outline, an outlined "Question" chip in `awaiting-text`, the question's first sentence as the title (never cut), the rest of the question and the team's recommendation in at most three lines each, the number of choices, the ticket title in `text-muted`, and a footer with "Waiting since 16:05" in mono and "Read it all and answer" in `awaiting-text`.
+
+**Tracker only** (in the approval status of the tracker, no request from Cleared): listed apart under the waiting cards with a mono label, `surface-muted`, hairline outline, no stripe, no chip, no amber. Nothing to clear.
 
 **Queued** (waiting for a machine slot): `surface-muted`, 1 px dashed border `#D4D4D4`, no shadow, title in `text-secondary`, one sentence with the reason.
 
@@ -125,9 +127,11 @@ White outlined table at the bottom of the tower: time (mono), what shipped (plai
 
 ### Porthole
 Desktop: right panel. Phone: full page with a back button, the ticket id and the status chip in a white header.
-Order: a 3 px × 56 px flat amber bar above the title when it waits for the human, the title (`title`), a stat strip (flight, fuel, tests), Show me, Where we are, The squad, Black box.
-- Show me, screen ticket: before and after inside device frames (radius `device`, 5 px white bezel, outline), after with `elevation.device-after`.
-- Show me, non-screen ticket: one concrete before/after example, the tests with their state, one sentence on what it touches. The diff is only a link.
+Order: a 3 px × 56 px flat amber bar above the title when it waits for the human, the title (`title`) and "Waiting since 16:05 (1h35)" in mono, the question block (`awaiting-surface`, amber outline, the whole question at 16 px, the team's recommendation below a highlight hairline), a stat strip (flight, checks, share of the week only when measured), What changed, Where we are, The squad, Black box.
+- What changed: the pull request link with a "draft" tag, one line of facts (files, +added −removed, checks in `success-text` or `danger`), then the captures, or one dashed box "No capture yet: …" with the reason.
+- Where we are: the team's report to the user, "Done" and "Still to do" as short lists, the time of the report in `text-faint`; "No report from the team yet." otherwise.
+- What changed, screen ticket: before and after inside device frames (radius `device`, 5 px white bezel, outline), after with `elevation.device-after`.
+- What changed, non-screen ticket: one concrete before/after example and the tests with their state. The diff is only a link.
 - The squad: one white outlined list, a row per role (harness square, role, harness and exact model in mono).
 - Black box: vertical timeline on a hairline, one dot per event in its stage color, time in mono, one plain sentence.
 - Actions: "Clear to land" is a solid ink button that carries the exact version ("Clear to land · a1b2c3d"); "Send back" is an outlined button. When the board shows a newer version than the one on screen, one ink button reads "New version, review again". A click asks for a passkey, then a **grace bar** appears: a 4 px flat track with an ink fill that empties over 60 seconds, "Clearing in 42 s" in mono and an ink "Undo" beside it. Never a gradient. After the write the card says "Cleared by you at 14:02, landing" in place of its status line until the next snapshot. A question's options are outlined buttons above a text field. Without a passkey (or a secure address) the buttons are disabled and say why. Nothing pretends to act.

diff --git a/docs/configuration.md b/docs/configuration.md
@@ -222,7 +222,7 @@ Worktree layout, captures, checks, and cleanup settings.
 | `base_without_model` | Allow a clean base integration by script. | Default: yes |
 | `rerun_steps` | CI steps that may be retried without waking a model. | Optional; no default |
 | `kept_from` | Capture directory inside a team worktree. | Optional; no default |
-| `kept_in` | Capture directory retained in the main project. | Optional; no default |
+| `kept_in` | Capture directory retained in the main project; the app shows the PNG and JPEG files of `<kept_in>/<ticket>/` as the ticket's captures. | Optional; no default |
 | `heavy_commands` | Commands serialized while host resources are busy. | Optional; no default |
 | `heavy_wait_minutes` | How long a heavy command waits for the host. | Default: 30 |
 | `tidy_hour` | Hour of day for cleanup. | Default: 6 |
